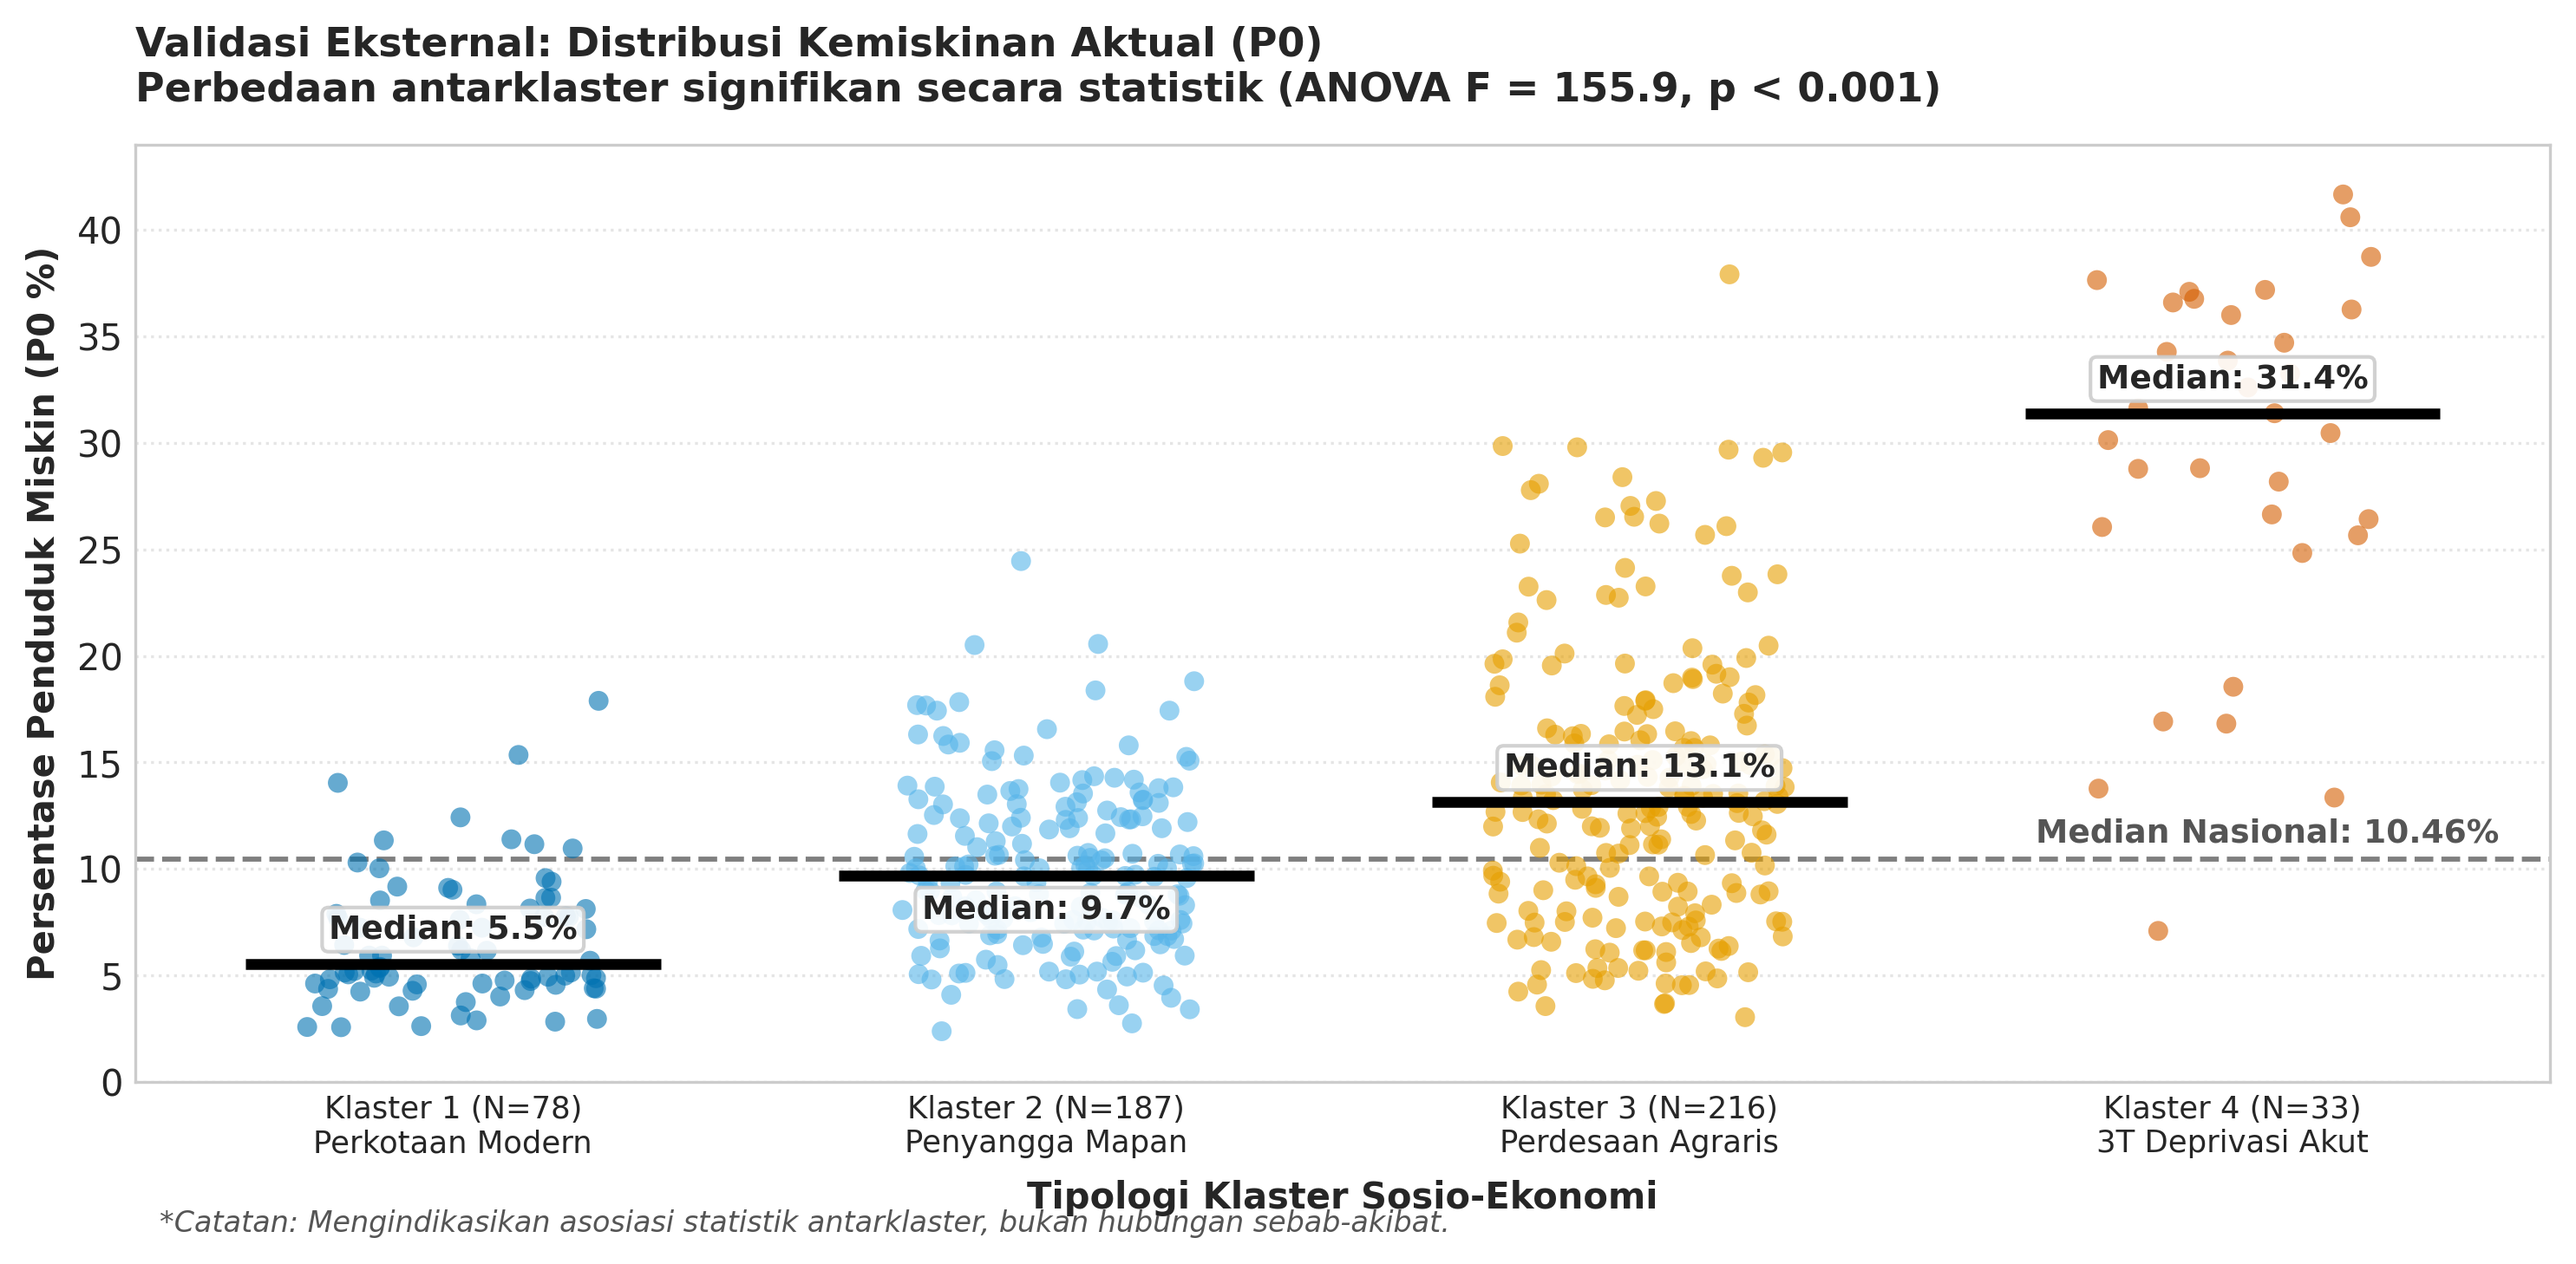
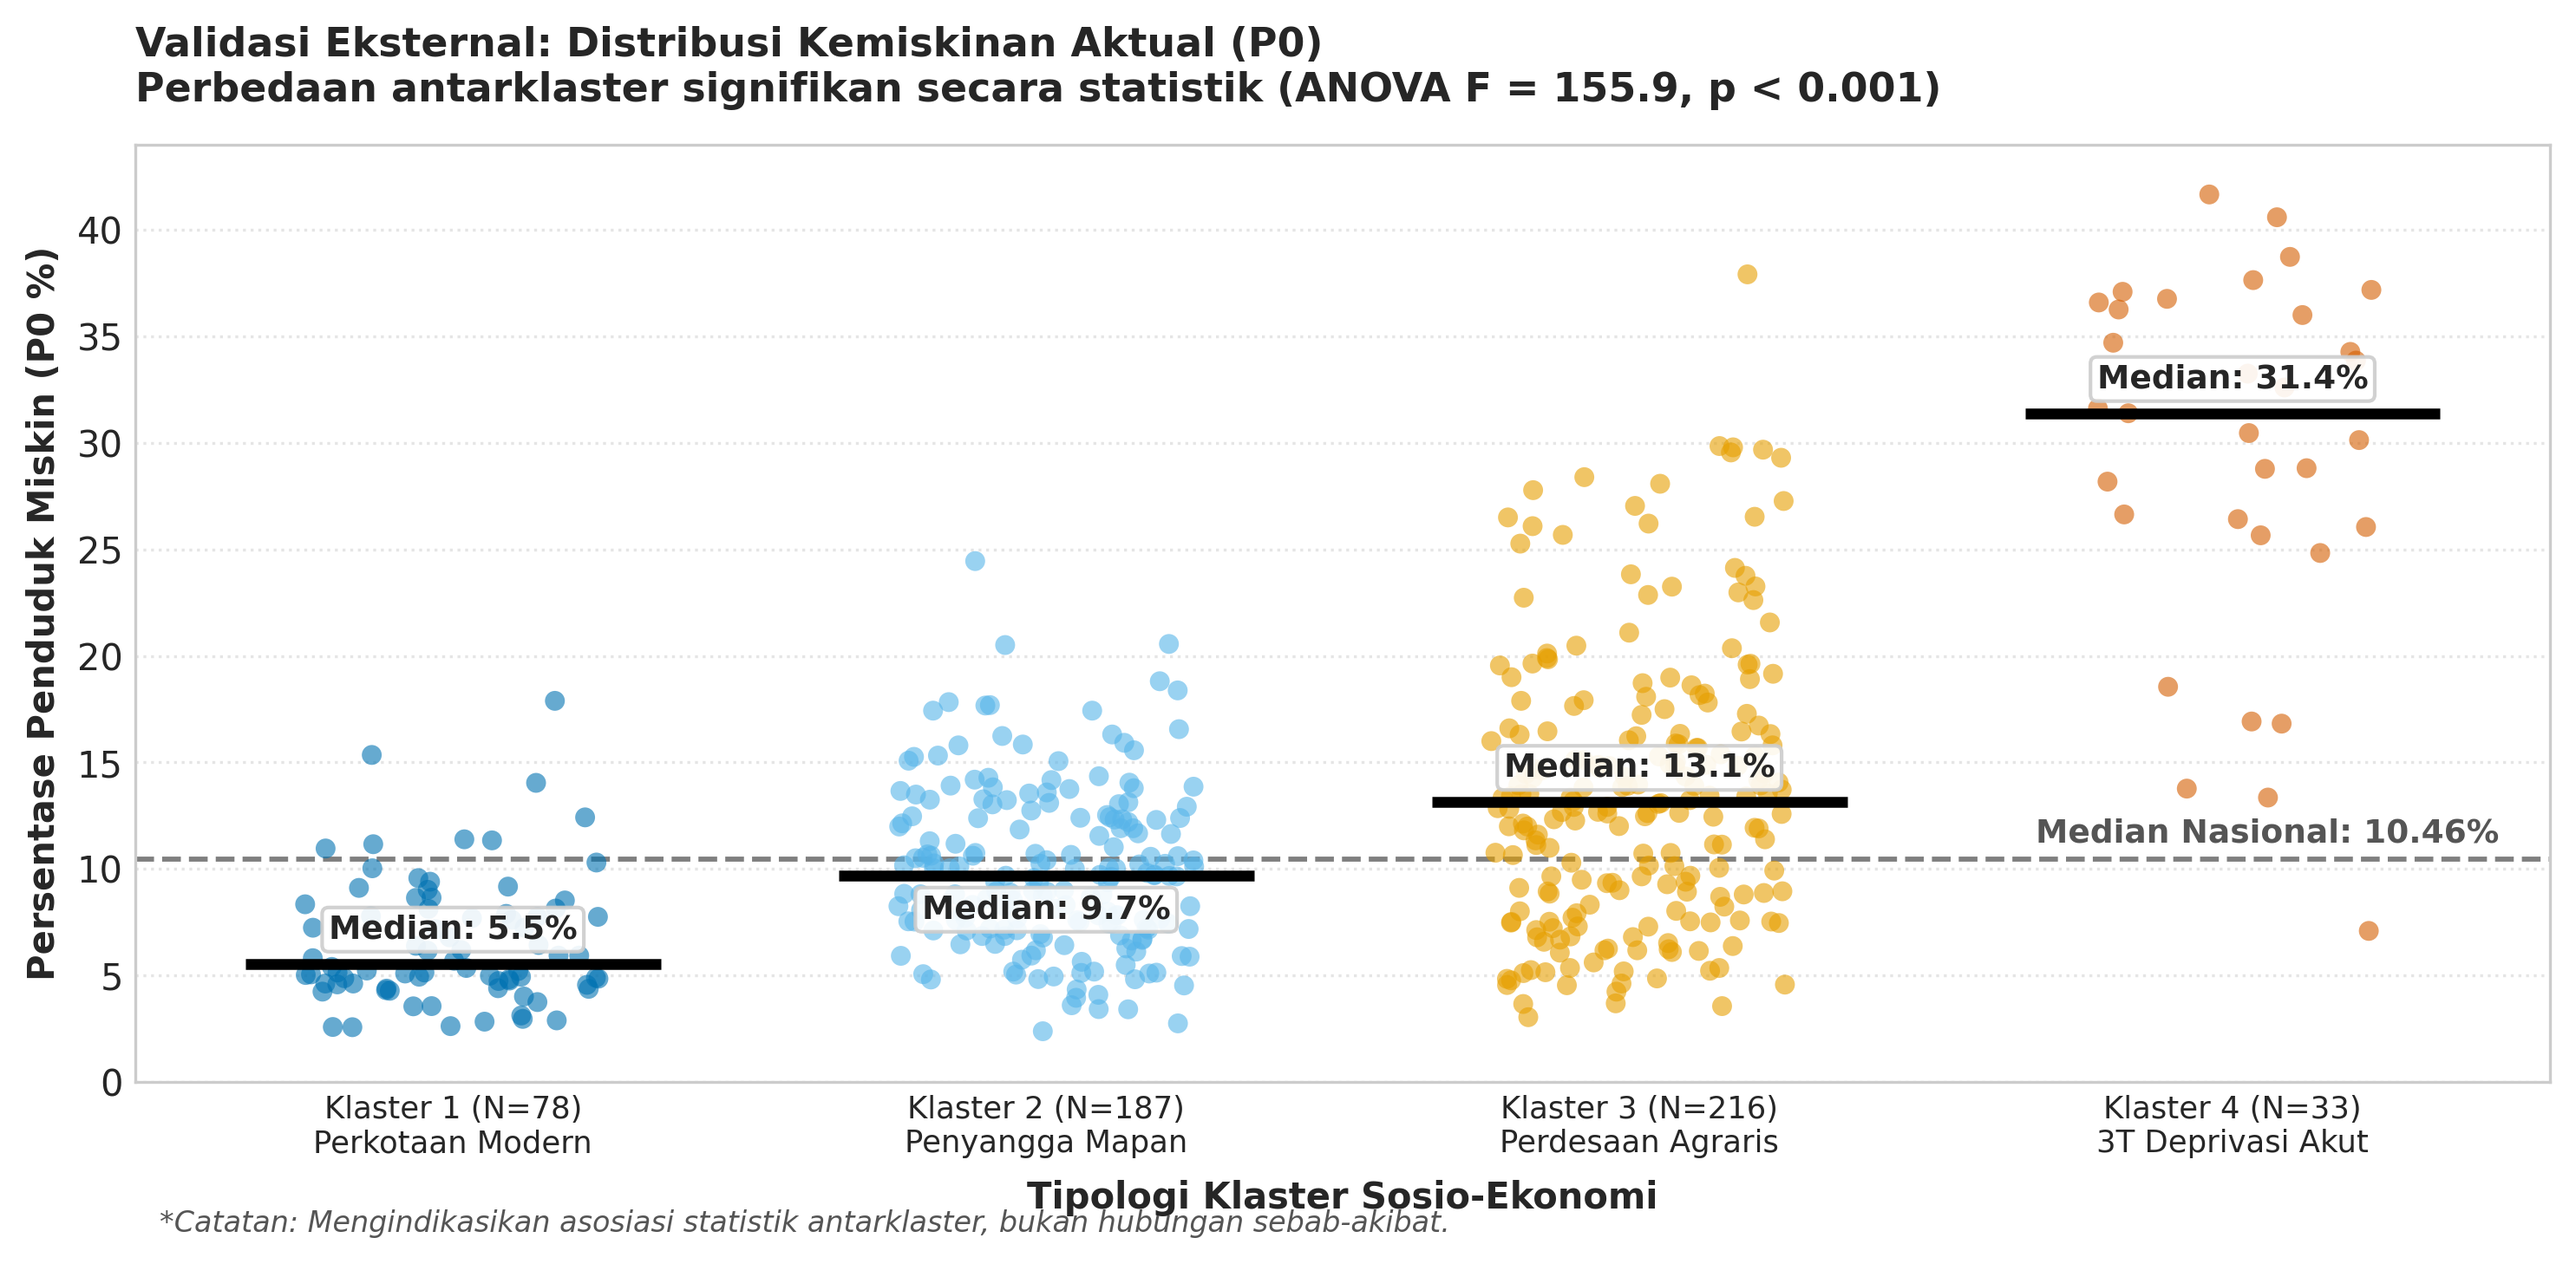
style(viz): simplify 2x2 matrix quadrant annotations to minimalist badges

diff --git a/src/poverty_radar/visualization/plots.py b/src/poverty_radar/visualization/plots.py
@@ -452,32 +452,24 @@ def plot_vulnerability_matrix_2x2(df: pd.DataFrame, save_path: Optional[Path] = 
     box_q3 = dict(boxstyle='round,pad=0.4', facecolor='#FAF0F5', edgecolor='#CC79A7', linewidth=1.2, alpha=0.95)
     box_q4 = dict(boxstyle='round,pad=0.4', facecolor='#F0F7FA', edgecolor='#0072B2', linewidth=1.2, alpha=0.95)
 
-    # Kuadran II: Top-Left (Whitespace x in [0.8, 9.5], y > 0.65)
-    ax.text(0.8, 1.02, 
-            'KUADRAN II: KERENTANAN TERSEMBUNYI\n'
-            '• 95 Daerah (18.5%) | P0 < 10.5% | V_struc ≥ 0.27\n'
-            '• Fokus: Penguatan sarana sanitasi & air preventif',
+    # Kuadran II: Top-Left (x in [0.8, 7.5], well left of median line 10.46)
+    ax.text(0.8, 1.01, 
+            'KUADRAN II\nKerentanan Tersembunyi\n95 Daerah (18.5%)',
             fontsize=8.5, fontweight='bold', color='#B84D00', bbox=box_q2, va='top')
 
-    # Kuadran I: Top-Center (Whitespace x in [12.0, 26], y > 0.62)
-    ax.text(12.0, 1.02, 
-            'KUADRAN I: PRIORITAS BEBAN GANDA\n'
-            '• 162 Daerah (31.5%) | P0 ≥ 10.5% | V_struc ≥ 0.27\n'
-            '• Fokus: Bantuan sosial terpadu + percepatan sarana fisik dasar',
+    # Kuadran I: Top-Center/Right (x in [14.0, 20.1], clear of median line 10.46 and Nduga 30.0)
+    ax.text(14.0, 1.01, 
+            'KUADRAN I\nPrioritas Beban Ganda\n162 Daerah (31.5%)',
             fontsize=8.5, fontweight='bold', color='#B33000', bbox=box_q1, va='top')
 
-    # Kuadran IV: Bottom-Left (Sub-band y in [-0.05, 0.0] clear of scatter dots)
+    # Kuadran IV: Bottom-Left (x in [0.8, 6.2], clear of data points)
     ax.text(0.8, -0.015, 
-            'KUADRAN IV: WILAYAH TERBINA / MAPAN\n'
-            '• 162 Daerah (31.5%) | P0 < 10.5% | V_struc < 0.27\n'
-            '• Karakteristik: Kebutuhan dasar tangguh | Rujukan tata kelola',
+            'KUADRAN IV\nWilayah Mapan\n162 Daerah (31.5%)',
             fontsize=8.5, fontweight='bold', color='#004C7A', bbox=box_q4, va='top')
 
-    # Kuadran III: Bottom-Right (Empty whitespace x in [24.5, 43.0])
-    ax.text(24.5, -0.015, 
-            'KUADRAN III: KANTONG KEMISKINAN DAYA BELI\n'
-            '• 95 Daerah (18.5%) | P0 ≥ 10.5% | V_struc < 0.27\n'
-            '• Fokus: Padat karya produktif & stimulus UMKM',
+    # Kuadran III: Bottom-Right (x in [28.0, 33.0], clear of Sampang 18.0)
+    ax.text(28.0, -0.015, 
+            'KUADRAN III\nKantong Daya Beli\n95 Daerah (18.5%)',
             fontsize=8.5, fontweight='bold', color='#8A3B66', bbox=box_q3, va='top')
 
     benchmark_points = [
@@ -500,12 +492,12 @@ def plot_vulnerability_matrix_2x2(df: pd.DataFrame, save_path: Optional[Path] = 
         )
 
     ax.set_title('Matriks Skrining Kerentanan Relatif 2x2: Penapisan Portofolio Kebijakan\n'
-                 'Intervensi Darurat (I), Perlindungan Preventif (II), Stimulus Ekonomi (III), Mandiri (IV)',
+                 'Diferensiasi Beban Ganda (I), Kerentanan Tersembunyi (II), Stimulus Daya Beli (III), Wilayah Mapan (IV)',
                  fontsize=11.5, fontweight='bold', pad=12, loc='left')
     ax.set_xlabel('Tingkat Kemiskinan Aktual (P0 %)', fontsize=10, fontweight='bold')
     ax.set_ylabel('Indeks Kerentanan Struktural Relatif (V_struc)', fontsize=10, fontweight='bold')
     ax.set_xlim(0.0, 43.5)
-    ax.set_ylim(-0.06, 1.05)
+    ax.set_ylim(-0.08, 1.05)
     ax.set_yticks([0.0, 0.2, 0.4, 0.6, 0.8, 1.0])
     ax.grid(True, linestyle=':', alpha=0.35)
     ax.text(0.98, -0.08, '*Catatan: Instrumen penapisan relatif (skrining awal), bukan pembuktian kausalitas penyebab kemiskinan.', transform=ax.transAxes, fontsize=8, fontstyle='italic', color='#555555', ha='right')
